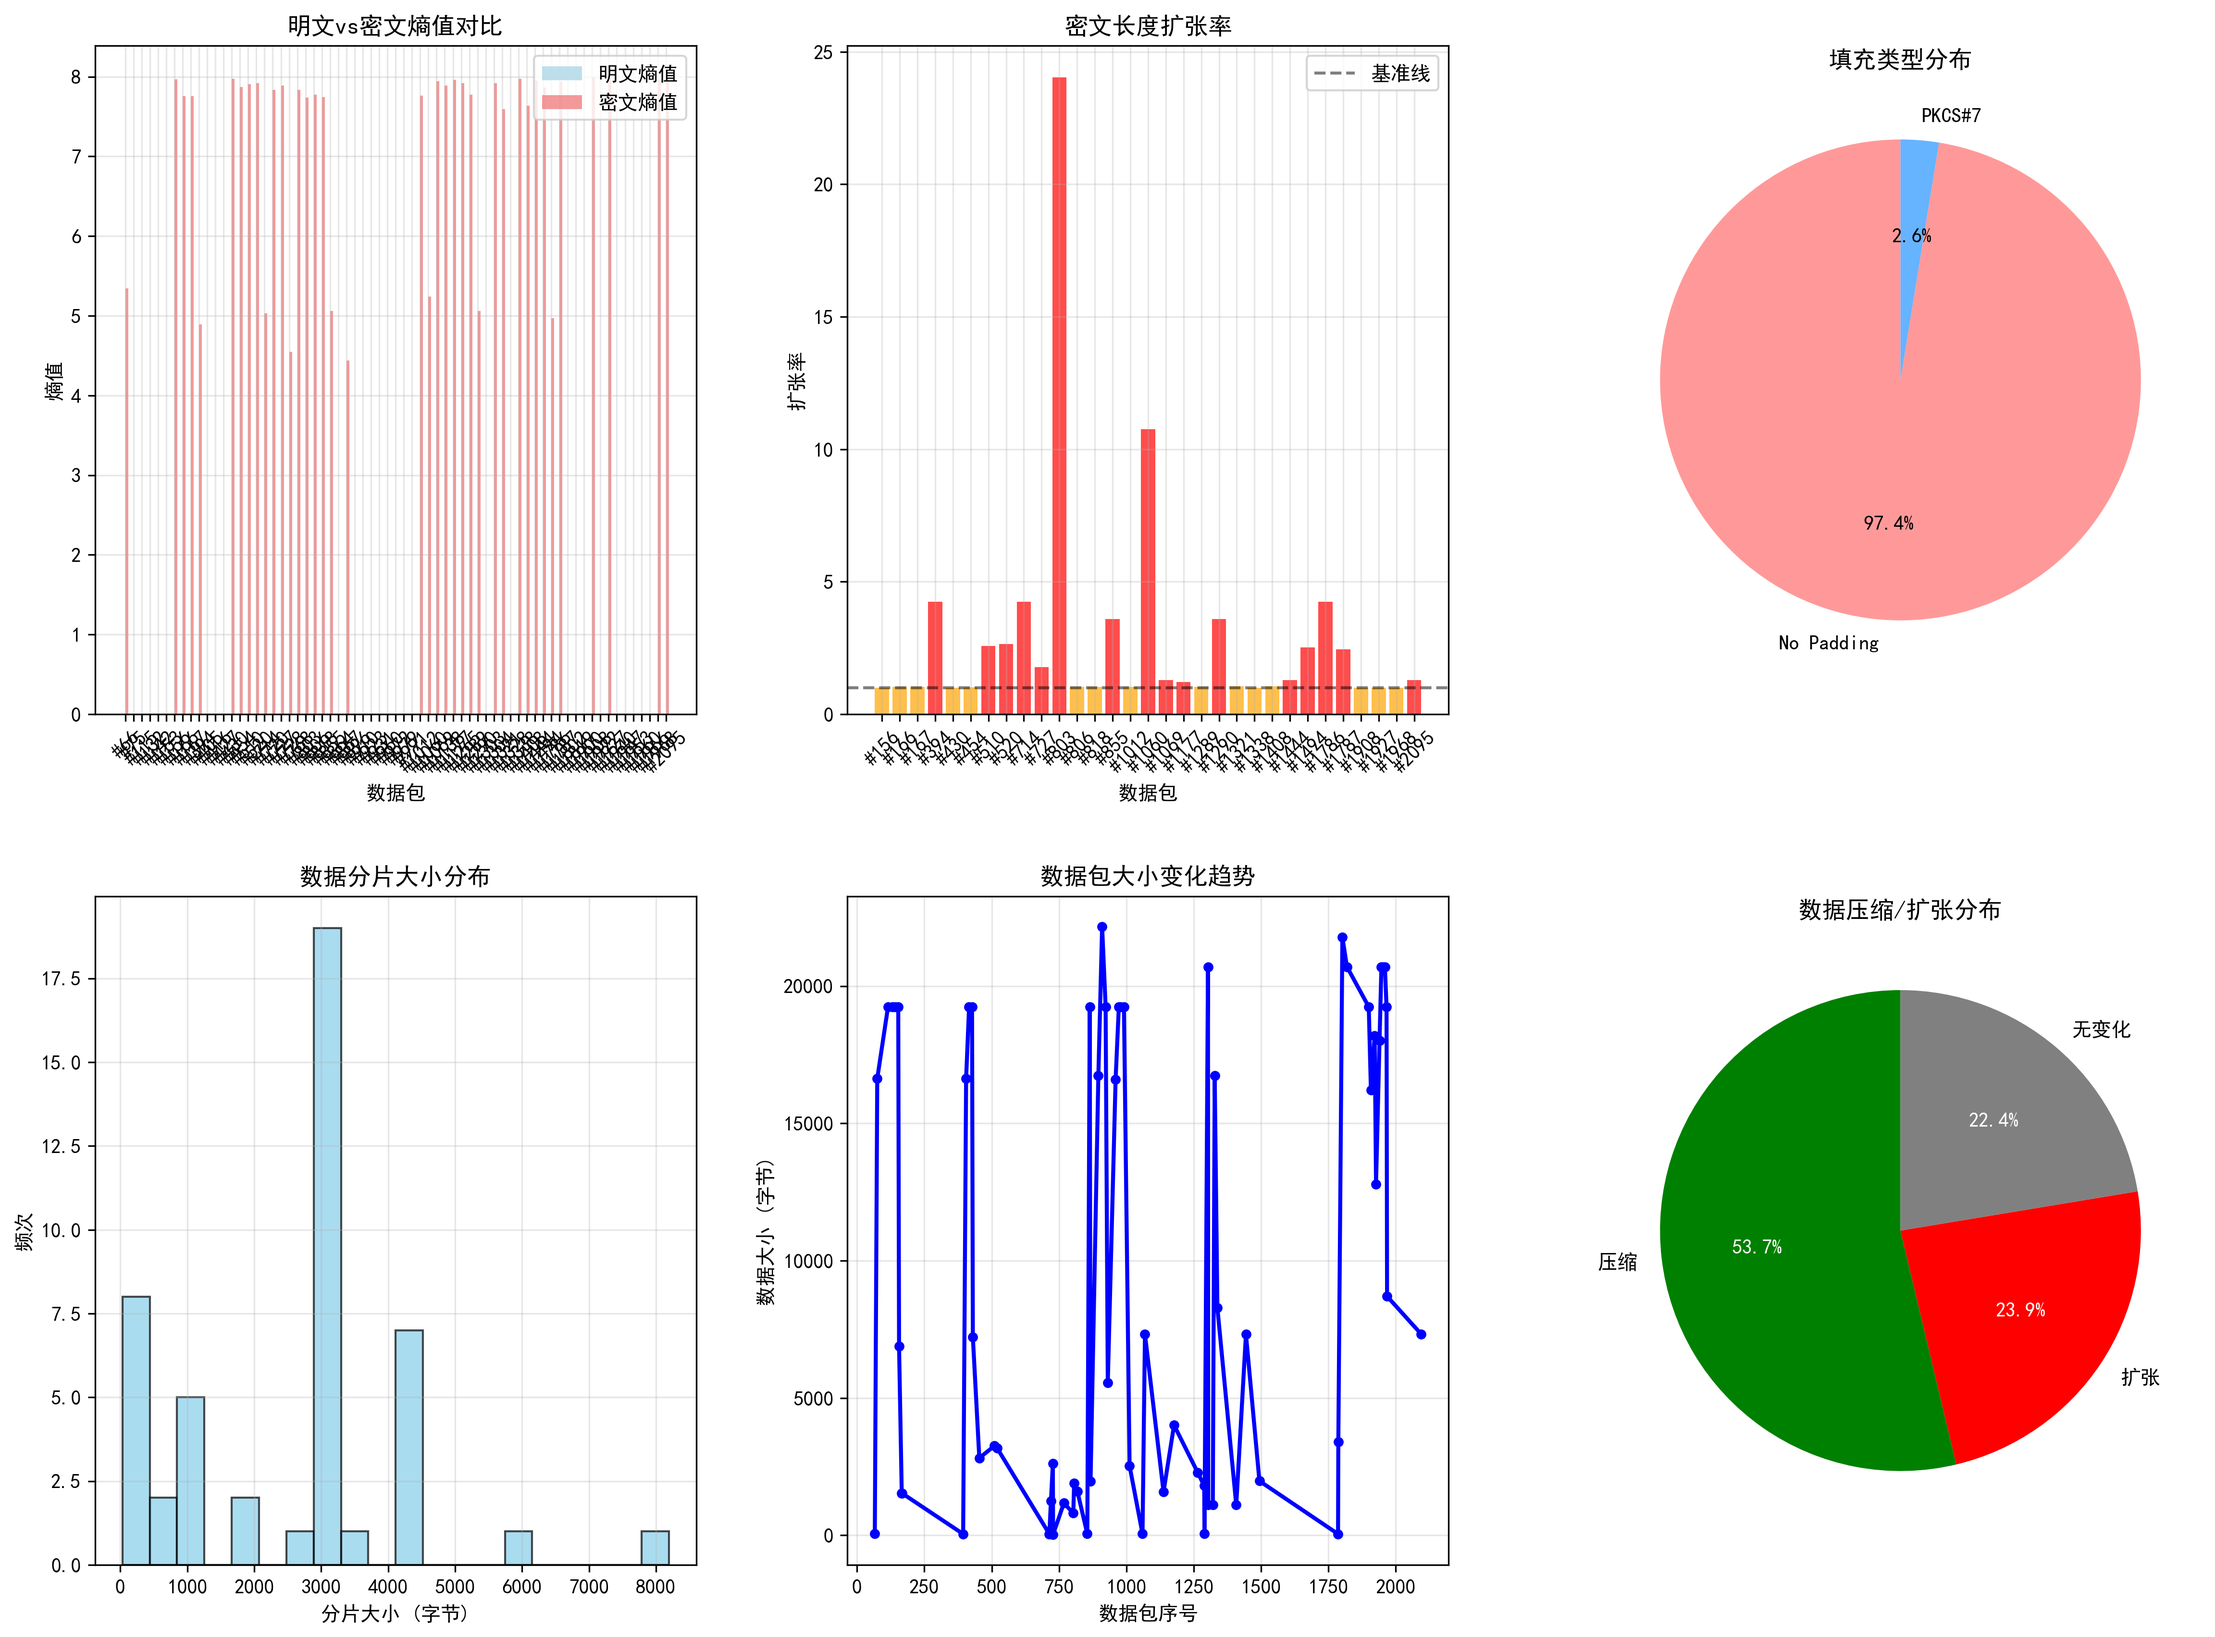
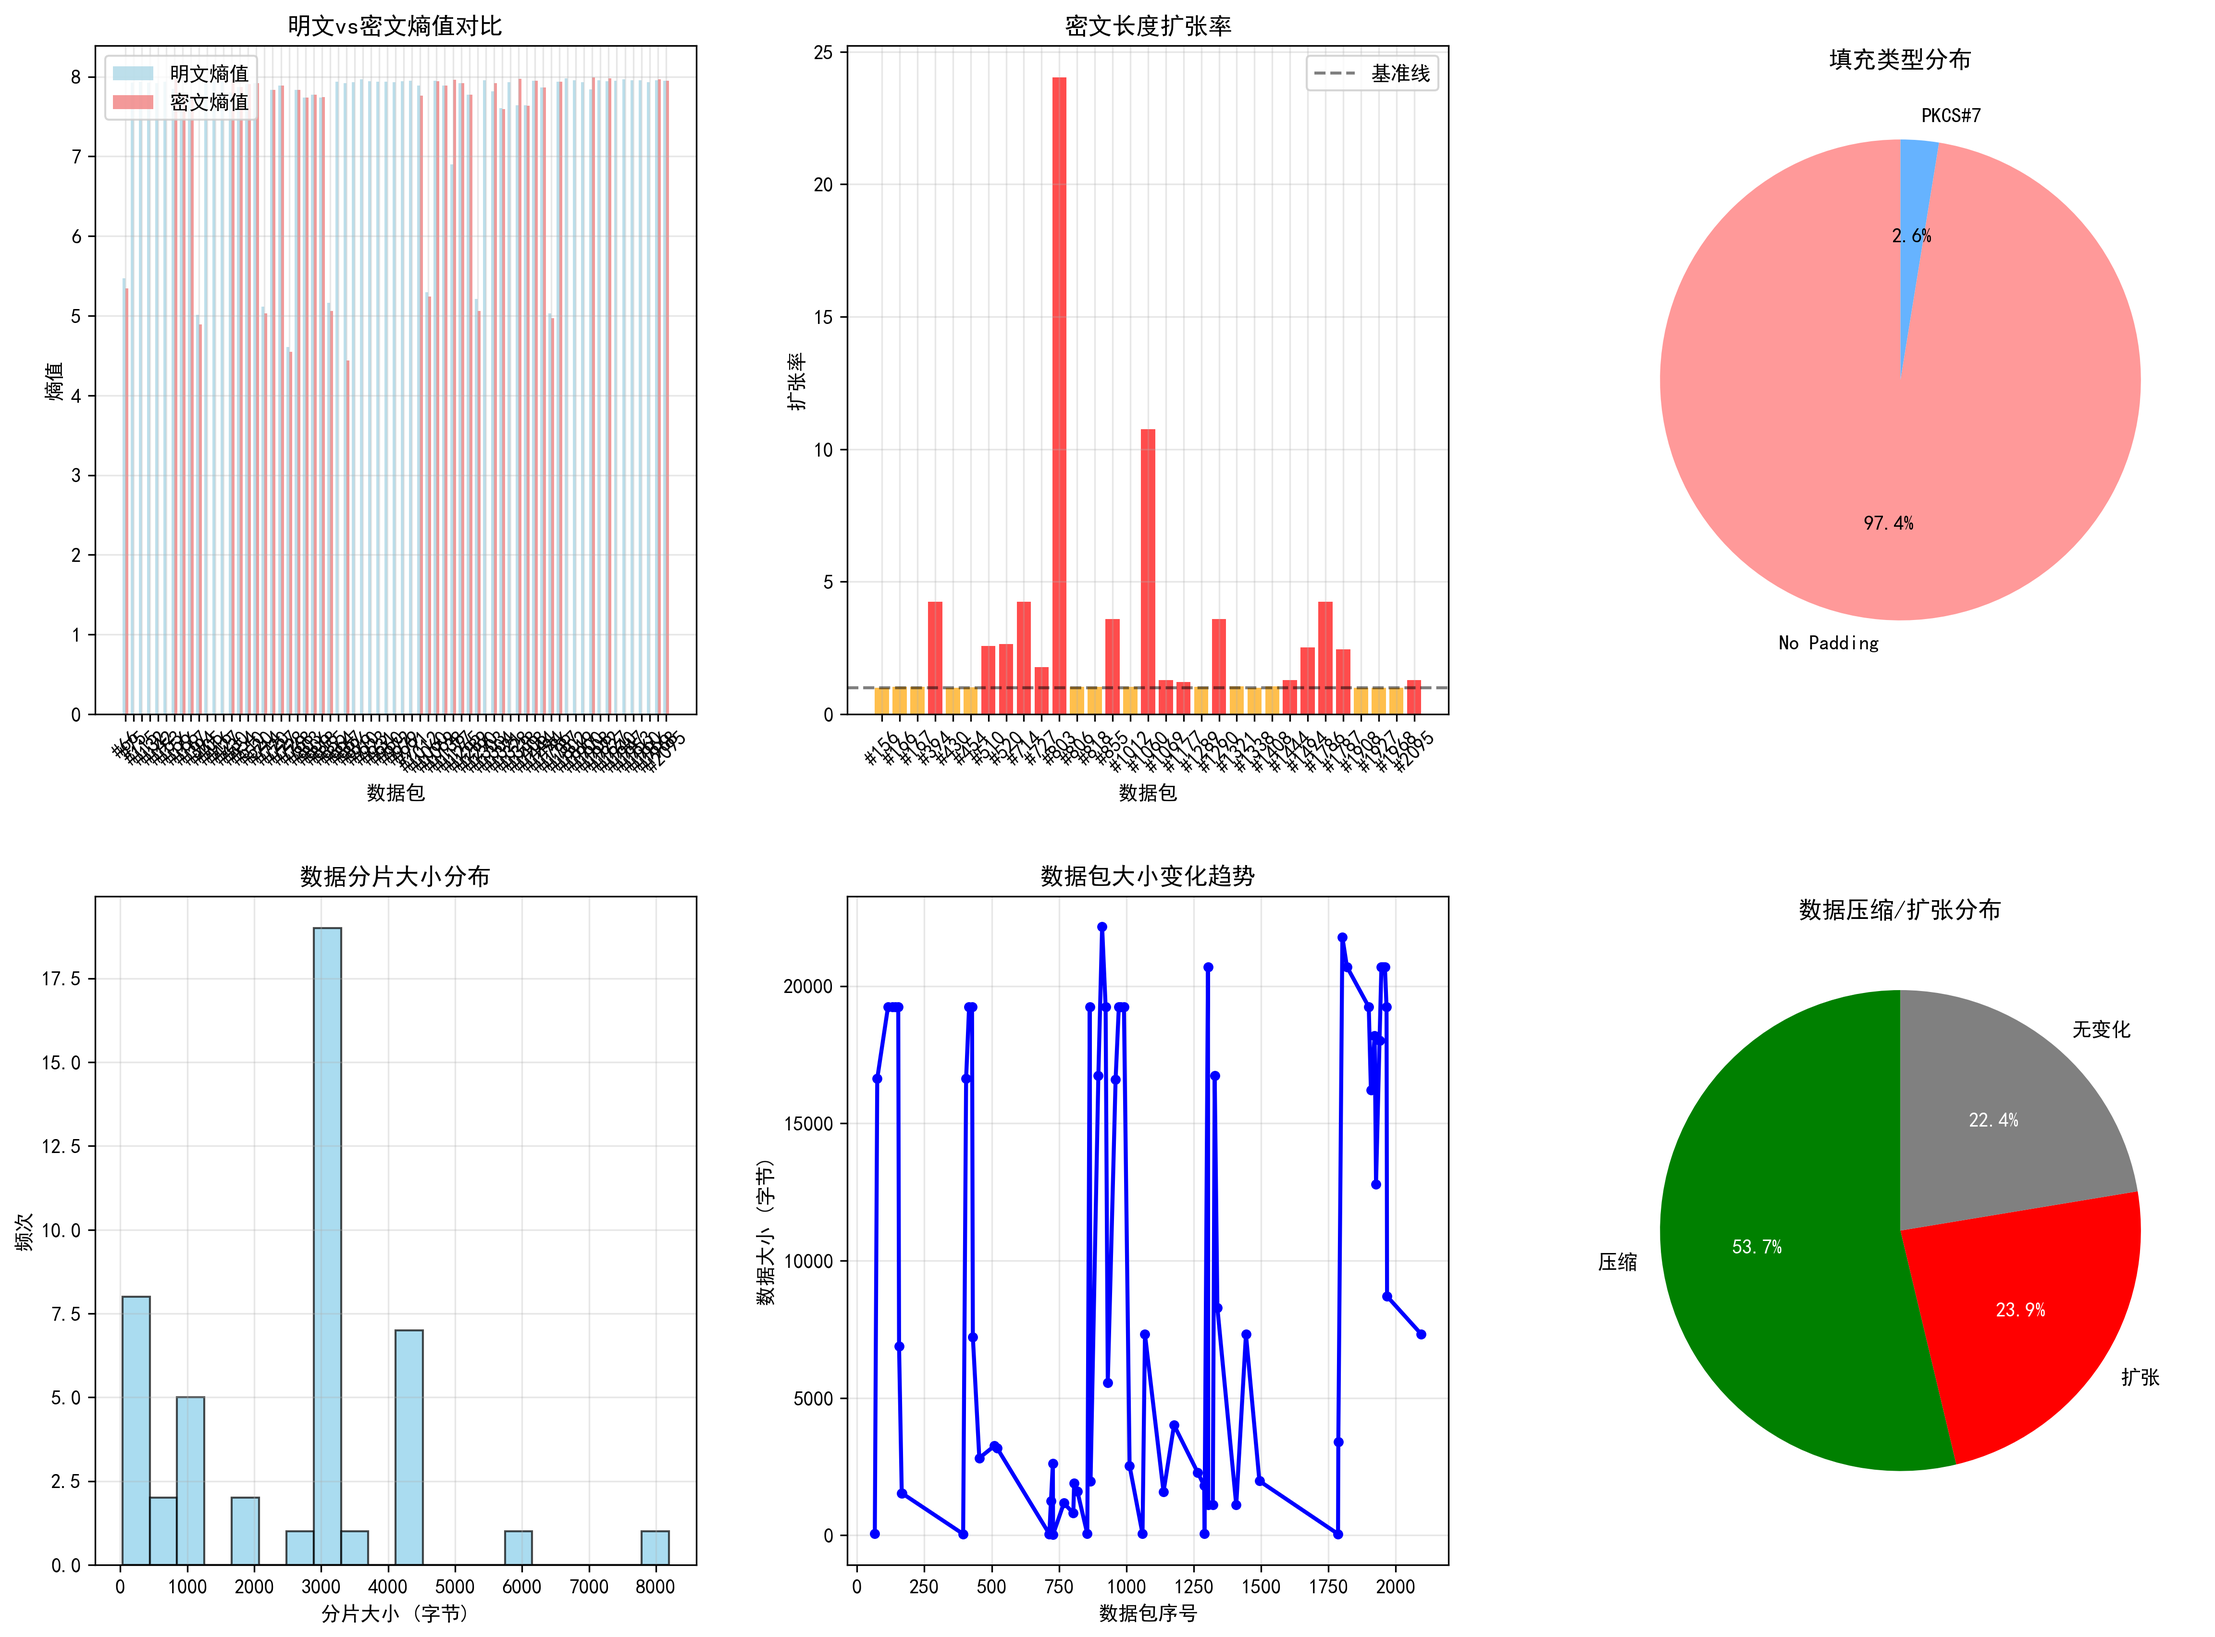
fix(deep_analysis): 修正熵值计算使用TCP载荷而非HTTP2数据
修改create_deep_analysis_charts函数中的熵值计算逻辑，使用TCP层的payload_entropy代替原先的HTTP2 plaintext_entropy，以更准确地反映加密前后的熵值变化

Changed region(s): [[0.0312, 0.0311, 0.3124, 0.4357]]

diff --git a/wiki/deep_analysis.py b/wiki/deep_analysis.py
@@ -365,11 +365,12 @@ def create_deep_analysis_charts(name, analysis_data, output_dir):
         plaintext_entropies = []
         ciphertext_entropies = []
         
+        # 在create_deep_analysis_charts函数中
         for packet_data in analysis_data['detailed_analysis']:
-            if 'http2' in packet_data['layers'] and 'tls' in packet_data['layers']:
-                http2_entropy = packet_data['layers']['http2']['decoded_data'].get('plaintext_entropy', 0)
+            if 'tcp' in packet_data['layers'] and 'tls' in packet_data['layers']:
+                tcp_entropy = packet_data['layers']['tcp']['decoded_data'].get('payload_entropy', 0)
                 tls_entropy = packet_data['layers']['tls']['decoded_data'].get('encrypted_entropy', 0)
-                plaintext_entropies.append(http2_entropy)
+                plaintext_entropies.append(tcp_entropy)  # 使用TCP载荷熵值
                 ciphertext_entropies.append(tls_entropy)
         
         if plaintext_entropies and ciphertext_entropies:
